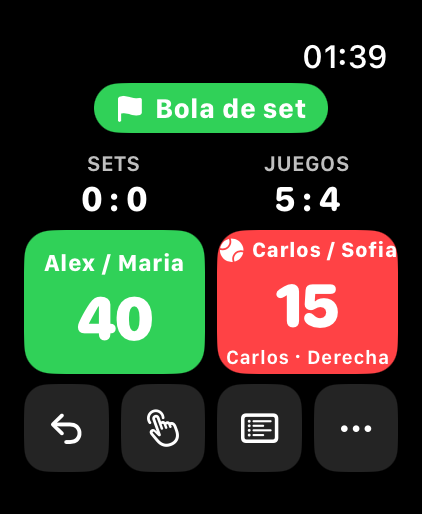
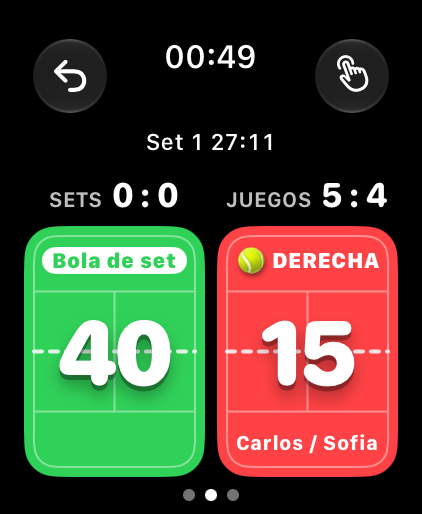
Website: new watch and iPhone screenshots, court-style buttons and fixed Double Tap time
From mlodylbn/padelscore-app@1153f3e

diff --git a/support/index.html b/support/index.html
@@ -82,21 +82,21 @@
     <details>
       <summary><span lang="pl">Jak zakończyć mecz przed końcem?</span><span lang="en">How do I end a match early?</span><span lang="es">¿Cómo termino un partido antes de tiempo?</span></summary>
       <div class="answer">
-        <p lang="pl">Na zegarku stuknij przycisk „•••” pod wynikiem, a&nbsp;potem „Zakończ mecz” na górze menu i&nbsp;potwierdź. Na iPhonie wybierz „Zakończ mecz” w&nbsp;menu meczu. Wynik zapisuje się w&nbsp;historii jako przerwany, a&nbsp;trening w&nbsp;aplikacji Zdrowie. Zegarek pokazuje podsumowanie z&nbsp;wynikiem w&nbsp;setach i&nbsp;przyciskiem „Nowy mecz”.</p>
-        <p lang="en">On the watch, tap the "•••" button below the score, then "End match" at the top of the menu, and confirm. On the iPhone, choose "End match" in the match menu. The score is saved in your history as an interrupted match and the workout in the Health app. The watch shows a summary with the sets and a "New match" button.</p>
-        <p lang="es">En el reloj, toca el botón «•••» bajo el marcador, luego «Terminar partido» arriba del menú, y confirma. En el iPhone, elige «Terminar partido» en el menú del partido. El marcador se guarda en tu historial como partido interrumpido y el entrenamiento en la app Salud. El reloj muestra un resumen con los sets y un botón «Nuevo partido».</p>
+        <p lang="pl">Na zegarku przesuń ekran wyniku w&nbsp;prawo, żeby otworzyć ustawienia, stuknij „Zakończ mecz” i&nbsp;potwierdź. Na iPhonie wybierz „Zakończ mecz” w&nbsp;menu meczu. Wynik zapisuje się w&nbsp;historii jako przerwany, a&nbsp;trening w&nbsp;aplikacji Zdrowie. Zegarek pokazuje podsumowanie z&nbsp;wynikiem w&nbsp;setach i&nbsp;przyciskiem „Nowy mecz”.</p>
+        <p lang="en">On the watch, swipe right on the score to open the settings, tap "End match", and confirm. On the iPhone, choose "End match" in the match menu. The score is saved in your history as an interrupted match and the workout in the Health app. The watch shows a summary with the sets and a "New match" button.</p>
+        <p lang="es">En el reloj, desliza el marcador hacia la derecha para abrir los ajustes, toca «Terminar partido» y confirma. En el iPhone, elige «Terminar partido» en el menú del partido. El marcador se guarda en tu historial como partido interrumpido y el entrenamiento en la app Salud. El reloj muestra un resumen con los sets y un botón «Nuevo partido».</p>
       </div>
     </details>
 
     <details>
       <summary><span lang="pl">Jak liczyć punkty gestem Double Tap?</span><span lang="en">How do I score with Double Tap?</span><span lang="es">¿Cómo marco con el doble toque?</span></summary>
       <div class="answer">
-        <p lang="pl">Stuknij palcem wskazującym o&nbsp;kciuk dłoni, na której masz zegarek. <strong>Jeden gest</strong> to punkt dla Twojej drużyny, <strong>dwa gesty pod rząd</strong> to punkt dla rywali. Zegarek potwierdza punkt wibracją, inną dla każdej drużyny, więc nie musisz patrzeć na ekran. Punkt dla Twojej drużyny dolicza się po krótkiej chwili, bo zegarek czeka, czy nie pojawi się drugi gest.</p>
-        <p lang="pl">Funkcję włączysz i&nbsp;dostosujesz w&nbsp;menu „…” na zegarku. Jeśli punkt dla rywali czasem liczy się jako dwa punkty dla Was, wydłuż czas na drugi gest. Gest wymaga Apple&nbsp;Watch Series&nbsp;9 lub Ultra&nbsp;2 albo nowszego oraz włączonej opcji w&nbsp;Ustawieniach zegarka › Gesty › Podwójne stuknięcie. Podnieś nadgarstek, żeby ekran był aktywny.</p>
-        <p lang="en">Tap your index finger and thumb together on the hand wearing the watch. <strong>One gesture</strong> is a point for your team, <strong>two gestures in a row</strong> are a point for the opponents. The watch confirms each point with a different haptic for each team, so you don't need to look. A point for your team is added after a short moment, because the watch waits for a possible second gesture.</p>
-        <p lang="es">Junta dos veces el índice y el pulgar de la mano que lleva el reloj. <strong>Un gesto</strong> es punto para tu equipo y <strong>dos gestos seguidos</strong>, punto para los rivales. El reloj confirma cada punto con una vibración distinta para cada equipo, así que no hace falta mirar. El punto para tu equipo se suma tras un instante, porque el reloj espera un posible segundo gesto.</p>
-        <p lang="en">Turn it on and adjust it in the "…" menu on the watch. If a point for the opponents sometimes counts as two points for your team, make the time for the second gesture longer. The gesture requires Apple&nbsp;Watch Series&nbsp;9 or Ultra&nbsp;2 or later, with Double Tap turned on in the watch Settings › Gestures. Raise your wrist so the screen is active.</p>
-        <p lang="es">Actívalo y ajústalo en el menú «…» del reloj. Si a veces un punto para los rivales cuenta como dos puntos para tu equipo, alarga el tiempo del segundo gesto. El gesto requiere Apple&nbsp;Watch Series&nbsp;9 o Ultra&nbsp;2 o posterior, con el doble toque activado en Ajustes › Gestos del reloj. Levanta la muñeca para que la pantalla esté activa.</p>
+        <p lang="pl">Stuknij palcem wskazującym o&nbsp;kciuk dłoni, na której masz zegarek. <strong>Jeden gest</strong> to punkt dla Twojej drużyny, <strong>dwa gesty pod rząd</strong> to punkt dla rywali. Zegarek potwierdza punkt wibracją, inną dla każdej drużyny, więc nie musisz patrzeć na ekran. Punkt dla Twojej drużyny dolicza się po 3&nbsp;sekundach, bo zegarek czeka, czy nie pojawi się drugi gest. Żółty pierścień wokół ikony dłoni w&nbsp;prawym górnym rogu pokazuje, ile czasu zostało.</p>
+        <p lang="pl">Funkcję włączysz w&nbsp;ustawieniach zegarka (przesuń wynik w&nbsp;prawo › Double Tap). Na drugi gest masz zawsze 3&nbsp;sekundy. Jeśli punkt dla rywali czasem liczy się jako dwa punkty dla Was, zrób drugi gest wyraźnie, zaraz po pierwszym. Gest wymaga Apple&nbsp;Watch Series&nbsp;9 lub Ultra&nbsp;2 albo nowszego oraz włączonej opcji w&nbsp;Ustawieniach zegarka › Gesty › Podwójne stuknięcie. Podnieś nadgarstek, żeby ekran był aktywny.</p>
+        <p lang="en">Tap your index finger and thumb together on the hand wearing the watch. <strong>One gesture</strong> is a point for your team, <strong>two gestures in a row</strong> are a point for the opponents. The watch confirms each point with a different haptic for each team, so you don't need to look. A point for your team is added after 3&nbsp;seconds, because the watch waits for a possible second gesture. A yellow ring around the hand icon in the top-right corner shows the time left.</p>
+        <p lang="es">Junta dos veces el índice y el pulgar de la mano que lleva el reloj. <strong>Un gesto</strong> es punto para tu equipo y <strong>dos gestos seguidos</strong>, punto para los rivales. El reloj confirma cada punto con una vibración distinta para cada equipo, así que no hace falta mirar. El punto para tu equipo se suma tras 3&nbsp;segundos, porque el reloj espera un posible segundo gesto. Un anillo amarillo alrededor del icono de la mano, arriba a la derecha, muestra el tiempo que queda.</p>
+        <p lang="en">Turn it on in the watch settings (swipe right on the score › Double Tap). You always have 3&nbsp;seconds for the second gesture. If a point for the opponents sometimes counts as two points for your team, make the second gesture clearly, right after the first. The gesture requires Apple&nbsp;Watch Series&nbsp;9 or Ultra&nbsp;2 or later, with Double Tap turned on in the watch Settings › Gestures. Raise your wrist so the screen is active.</p>
+        <p lang="es">Actívalo en los ajustes del reloj (desliza el marcador a la derecha › Doble toque). Siempre tienes 3&nbsp;segundos para el segundo gesto. Si a veces un punto para los rivales cuenta como dos puntos para tu equipo, haz el segundo gesto con claridad, justo después del primero. El gesto requiere Apple&nbsp;Watch Series&nbsp;9 o Ultra&nbsp;2 o posterior, con el doble toque activado en Ajustes › Gestos del reloj. Levanta la muñeca para que la pantalla esté activa.</p>
       </div>
     </details>
 
@@ -130,9 +130,9 @@
     <details>
       <summary><span lang="pl">Jak działa wskazywanie serwującego?</span><span lang="en">How does the server indicator work?</span><span lang="es">¿Cómo funciona el indicador de saque?</span></summary>
       <div class="answer">
-        <p lang="pl">Przy starcie meczu, na ekranie „Nowy mecz”, wybierz, kto serwuje pierwszy, albo zakręć rakietą. Dalej aplikacja sama liczy rotację, także w&nbsp;tie-breaku, i&nbsp;pokazuje stronę serwisu. Gdy gracze mają imiona, widać też, który z&nbsp;nich serwuje, a&nbsp;przed pierwszym gemem serwisowym każdej pary aplikacja pyta, kto z&nbsp;niej serwuje. Serwującego możesz poprawić w&nbsp;każdej chwili w&nbsp;menu meczu („…” › Zmień serwis). Na zegarku, dopóki serwujący nie jest wybrany, nad wynikiem widać żółty przycisk „Kto serwuje?”, a&nbsp;wybór jest też na górze menu „•••”.</p>
-        <p lang="en">When you start a match on the “New match” screen, choose who serves first, or spin the racket. From then on the app counts the rotation, including tie-breaks, and shows the serving side. When players have names, you also see which player serves, and before each pair’s first service game the app asks which of them serves. You can correct the server at any time in the match menu (“…” › Change server). On the watch, until a server is chosen, a yellow “Who serves?” button appears above the score, and the choice is also at the top of the “•••” menu.</p>
-        <p lang="es">Al empezar el partido, elige quién saca primero. A partir de ahí la app cuenta la rotación, también en los tie-breaks, y muestra el lado de saque. Con los nombres de los jugadores ves además qué jugador saca; antes del primer juego de saque de cada pareja, la app pregunta quién saca. Puedes corregir el saque en cualquier momento en el menú del partido. En el reloj, mientras no se elija quién saca, aparece sobre el marcador un botón amarillo «¿Quién saca?», y la opción también está arriba del menú «•••».</p>
+        <p lang="pl">Przy starcie meczu, na ekranie „Nowy mecz”, wybierz, kto serwuje pierwszy, albo zakręć rakietą. Dalej aplikacja sama liczy rotację, także w&nbsp;tie-breaku, i&nbsp;pokazuje stronę serwisu: przyciski drużyn wyglądają jak kort widziany z&nbsp;góry, a&nbsp;piłka 🎾 stoi w&nbsp;rogu, z&nbsp;którego serwuje gracz, z&nbsp;napisem PRAWA albo LEWA (z&nbsp;jego perspektywy). Twoja drużyna serwuje z&nbsp;dolnych rogów zielonego kortu, rywale z&nbsp;górnych rogów czerwonego. Gdy gracze mają imiona, widać też, który z&nbsp;nich serwuje, a&nbsp;przed pierwszym gemem serwisowym każdej pary aplikacja pyta, kto z&nbsp;niej serwuje. Serwującego możesz poprawić w&nbsp;każdej chwili w&nbsp;menu meczu („…” › Zmień serwis). Na zegarku, dopóki serwujący nie jest wybrany, nad wynikiem widać żółty przycisk „Kto serwuje?”, a&nbsp;wybór jest też na górze ustawień zegarka (przesuń wynik w&nbsp;prawo).</p>
+        <p lang="en">When you start a match on the “New match” screen, choose who serves first, or spin the racket. From then on the app counts the rotation, including tie-breaks, and shows the serving side: the team buttons look like a court seen from above, and the ball 🎾 sits in the corner the player serves from, with RIGHT or LEFT as the server sees it. Your team serves from the bottom corners of the green court, the opponents from the top corners of the red one. When players have names, you also see which player serves, and before each pair’s first service game the app asks which of them serves. You can correct the server at any time in the match menu (“…” › Change server). On the watch, until a server is chosen, a yellow “Who serves?” button appears above the score, and the choice is also at the top of the watch settings (swipe right on the score).</p>
+        <p lang="es">Al empezar el partido, elige quién saca primero. A partir de ahí la app cuenta la rotación, también en los tie-breaks, y muestra el lado de saque: los botones de los equipos parecen una pista vista desde arriba y la pelota 🎾 está en la esquina desde la que saca el jugador, con DERECHA o IZQUIERDA desde su punto de vista. Tu equipo saca desde las esquinas inferiores de la pista verde y los rivales desde las superiores de la roja. Con los nombres de los jugadores ves además qué jugador saca; antes del primer juego de saque de cada pareja, la app pregunta quién saca. Puedes corregir el saque en cualquier momento en el menú del partido. En el reloj, mientras no se elija quién saca, aparece sobre el marcador un botón amarillo «¿Quién saca?», y la opción también está arriba de los ajustes del reloj (desliza el marcador a la derecha).</p>
       </div>
     </details>
 
@@ -148,9 +148,9 @@
     <details>
       <summary><span lang="pl">Mecz nie zapisuje się jako trening</span><span lang="en">The match isn't saved as a workout</span><span lang="es">El partido no se guarda como entrenamiento</span></summary>
       <div class="answer">
-        <p lang="pl">Opcja „Zapisuj mecze w&nbsp;Zdrowiu” jest domyślnie włączona (Ustawienia › Zdrowie). Po ekranie powitalnym zegarek wyjaśnia, co zapisuje, i&nbsp;prosi o&nbsp;dostęp do Zdrowia – trzeba się zgodzić. Po wybraniu „Nie teraz” włącz zapis ponownie w&nbsp;menu zegarka (sekcja Zdrowie) albo w&nbsp;ustawieniach na iPhonie. Trening startuje z&nbsp;pierwszym punktem albo ręcznie z&nbsp;menu zegarka. Uprawnienia zmienisz w&nbsp;Ustawieniach › Zdrowie › Dostęp do danych i&nbsp;urządzenia › Tapazo.</p>
-        <p lang="en">"Save matches in Health" is on by default (Settings › Apple Health). After its welcome screen, the watch explains what is saved and asks for Health access – please allow it. If you chose "Not now", turn it back on in the watch menu (Apple Health section) or in settings on your iPhone. The workout starts with the first point, or manually from the watch menu. You can change permissions in Settings › Health › Data Access &amp; Devices › Tapazo.</p>
-        <p lang="es">«Guardar partidos en Salud» está activado por defecto (Ajustes › Salud). Tras la pantalla de bienvenida, el reloj explica qué se guarda y pide acceso a Salud: permítelo. Si elegiste «Ahora no», vuelve a activarlo en el menú del reloj (sección Salud) o en los ajustes del iPhone. El entrenamiento empieza con el primer punto o manualmente desde el menú del reloj. Puedes cambiar los permisos en Ajustes › Salud › Acceso a datos y dispositivos › Tapazo.</p>
+        <p lang="pl">Opcja „Zapisuj mecze w&nbsp;Zdrowiu” jest domyślnie włączona (Ustawienia › Zdrowie). Po ekranie powitalnym zegarek wyjaśnia, co zapisuje, i&nbsp;prosi o&nbsp;dostęp do Zdrowia – trzeba się zgodzić. Po wybraniu „Nie teraz” włącz zapis ponownie w&nbsp;ustawieniach zegarka (przesuń wynik w&nbsp;prawo, sekcja Zdrowie) albo w&nbsp;ustawieniach na iPhonie. Trening startuje z&nbsp;pierwszym punktem albo ręcznie z&nbsp;ustawień zegarka. Uprawnienia zmienisz w&nbsp;Ustawieniach › Zdrowie › Dostęp do danych i&nbsp;urządzenia › Tapazo.</p>
+        <p lang="en">"Save matches in Health" is on by default (Settings › Apple Health). After its welcome screen, the watch explains what is saved and asks for Health access – please allow it. If you chose "Not now", turn it back on in the watch settings (swipe right on the score, Apple Health section) or in settings on your iPhone. The workout starts with the first point, or manually from the watch settings. You can change permissions in Settings › Health › Data Access &amp; Devices › Tapazo.</p>
+        <p lang="es">«Guardar partidos en Salud» está activado por defecto (Ajustes › Salud). Tras la pantalla de bienvenida, el reloj explica qué se guarda y pide acceso a Salud: permítelo. Si elegiste «Ahora no», vuelve a activarlo en los ajustes del reloj (desliza el marcador a la derecha, sección Salud) o en los ajustes del iPhone. El entrenamiento empieza con el primer punto o manualmente desde los ajustes del reloj. Puedes cambiar los permisos en Ajustes › Salud › Acceso a datos y dispositivos › Tapazo.</p>
       </div>
     </details>
 

diff --git a/index.html b/index.html
@@ -138,12 +138,12 @@
       <article class="card reveal">
         <div class="icon c-green"><svg class="i"><use href="#i-target"/></svg></div>
         <h3><span lang="pl">Jedno stuknięcie na punkt</span><span lang="en">One tap per point</span><span lang="es">Un toque por punto</span></h3>
-        <p><span lang="pl">Duże przyciski drużyn na zegarku, gest Double Tap bez dotykania ekranu, a&nbsp;na Apple&nbsp;Watch Ultra przycisk Czynności. Pomyłkę cofasz jednym przyciskiem.</span><span lang="en">Big team buttons on your watch, Double Tap without touching the screen, and the Action button on Apple&nbsp;Watch Ultra. Undo any mistake with one button.</span><span lang="es">Botones grandes de cada equipo en el reloj, el doble toque sin tocar la pantalla y el botón de acción en el Apple&nbsp;Watch Ultra. Deshaz cualquier error con un botón.</span></p>
+        <p><span lang="pl">Duże przyciski drużyn w&nbsp;kształcie kortu na zegarku, gest Double Tap bez dotykania ekranu, a&nbsp;na Apple&nbsp;Watch Ultra przycisk Czynności. Pomyłkę cofasz jednym przyciskiem.</span><span lang="en">Big court-style team buttons on your watch, Double Tap without touching the screen, and the Action button on Apple&nbsp;Watch Ultra. Undo any mistake with one button.</span><span lang="es">Botones grandes con forma de pista para cada equipo en el reloj, el doble toque sin tocar la pantalla y el botón de acción en el Apple&nbsp;Watch Ultra. Deshaz cualquier error con un botón.</span></p>
       </article>
       <article class="card reveal">
         <div class="icon c-yellow"><svg class="i"><use href="#i-ball"/></svg></div>
         <h3><span lang="pl">Kto serwuje i&nbsp;skąd</span><span lang="en">Who serves, and from where</span><span lang="es">Quién saca y desde dónde</span></h3>
-        <p><span lang="pl">Przed meczem wybierasz, kto serwuje, także jednym stuknięciem w&nbsp;„Kto serwuje?” na zegarku. Potem aplikacja sama pilnuje rotacji serwisu, imion graczy i&nbsp;strony serwisu.</span><span lang="en">Pick who serves before the match, also with one tap on "Who serves?" on the watch. The app then follows the serve rotation, player names and serving side for you.</span><span lang="es">Elige quién saca antes del partido, también con un toque en «¿Quién saca?» en el reloj. La app sigue por ti la rotación del saque, los nombres de los jugadores y el lado de saque.</span></p>
+        <p><span lang="pl">Przed meczem wybierasz, kto serwuje, także jednym stuknięciem w&nbsp;„Kto serwuje?” na zegarku. Potem aplikacja sama pilnuje rotacji serwisu i&nbsp;imion graczy, a&nbsp;piłka 🎾 na korcie pokazuje, z&nbsp;którego rogu serwuje gracz: PRAWA albo LEWA.</span><span lang="en">Pick who serves before the match, also with one tap on "Who serves?" on the watch. The app then follows the serve rotation and player names for you, and the ball 🎾 on the court shows the corner the player serves from: RIGHT or LEFT.</span><span lang="es">Elige quién saca antes del partido, también con un toque en «¿Quién saca?» en el reloj. La app sigue por ti la rotación del saque y los nombres de los jugadores, y la pelota 🎾 en la pista muestra la esquina desde la que saca el jugador: DERECHA o IZQUIERDA.</span></p>
       </article>
       <article class="card reveal">
         <div class="icon c-teal"><svg class="i"><use href="#i-medal"/></svg></div>
@@ -239,8 +239,8 @@
         </li>
       </ul>
       <p class="note">
-        <span lang="pl">Różne wibracje potwierdzają, komu przybył punkt. Czas na drugi gest ustawisz w&nbsp;menu zegarka. Wymaga Apple&nbsp;Watch Series&nbsp;9 lub Ultra&nbsp;2 albo nowszego.</span>
-        <span lang="en">Distinct haptics confirm who got the point. Set the time for the second gesture in the watch menu. Requires Apple&nbsp;Watch Series&nbsp;9 or Ultra&nbsp;2 or later.</span><span lang="es">Vibraciones distintas confirman quién ganó el punto. Ajusta el tiempo del segundo gesto en el menú del reloj. Requiere Apple&nbsp;Watch Series&nbsp;9 o Ultra&nbsp;2 o posterior.</span>
+        <span lang="pl">Różne wibracje potwierdzają, komu przybył punkt. Na drugi gest masz 3&nbsp;sekundy. Wymaga Apple&nbsp;Watch Series&nbsp;9 lub Ultra&nbsp;2 albo nowszego.</span>
+        <span lang="en">Distinct haptics confirm who got the point. You have 3&nbsp;seconds for the second gesture. Requires Apple&nbsp;Watch Series&nbsp;9 or Ultra&nbsp;2 or later.</span><span lang="es">Vibraciones distintas confirman quién ganó el punto. Tienes 3&nbsp;segundos para el segundo gesto. Requiere Apple&nbsp;Watch Series&nbsp;9 o Ultra&nbsp;2 o posterior.</span>
       </p>
     </div>
     <div class="watches reveal">
@@ -249,7 +249,7 @@
         <figcaption><span lang="pl">Gotowy na gest</span><span lang="en">Ready for a gesture</span><span lang="es">Listo para el gesto</span></figcaption>
       </figure>
       <figure>
-        <div class="watch"><img src="assets/watch-doubletap.png" loading="lazy" width="422" height="514" alt="Żółty przycisk: zegarek czeka na drugi gest" data-en="assets/en/watch-doubletap.png" data-alt-en="Yellow button: the watch is waiting for a second gesture" data-es="assets/es/watch-doubletap.png" data-alt-es="Botón amarillo: el reloj espera un segundo gesto"></div>
+        <div class="watch"><img src="assets/watch-doubletap.png" loading="lazy" width="422" height="514" alt="Żółta ikona dłoni z&nbsp;pierścieniem: zegarek czeka na drugi gest" data-en="assets/en/watch-doubletap.png" data-alt-en="Yellow hand icon with a ring: the watch is waiting for a second gesture" data-es="assets/es/watch-doubletap.png" data-alt-es="Icono amarillo de la mano con un anillo: el reloj espera un segundo gesto"></div>
         <figcaption><span lang="pl">Czeka na drugi gest</span><span lang="en">Waiting for a second gesture</span><span lang="es">Esperando un segundo gesto</span></figcaption>
       </figure>
     </div>
